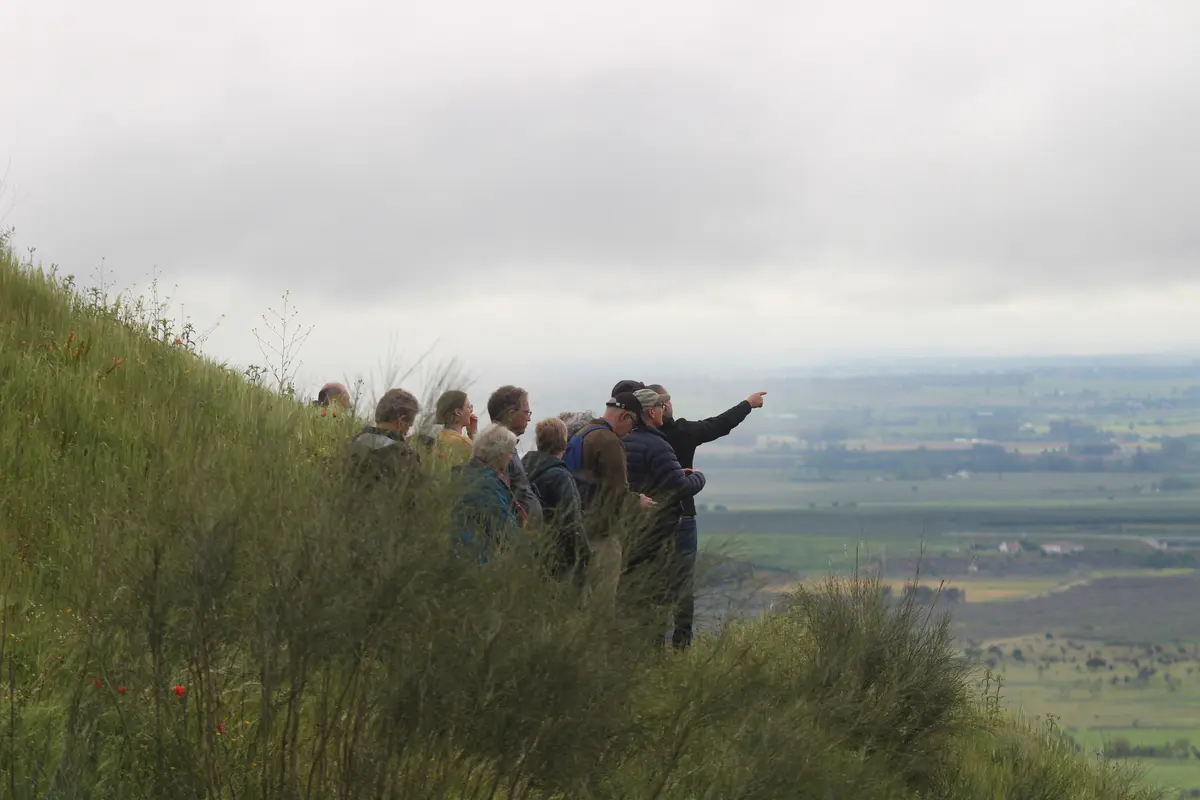
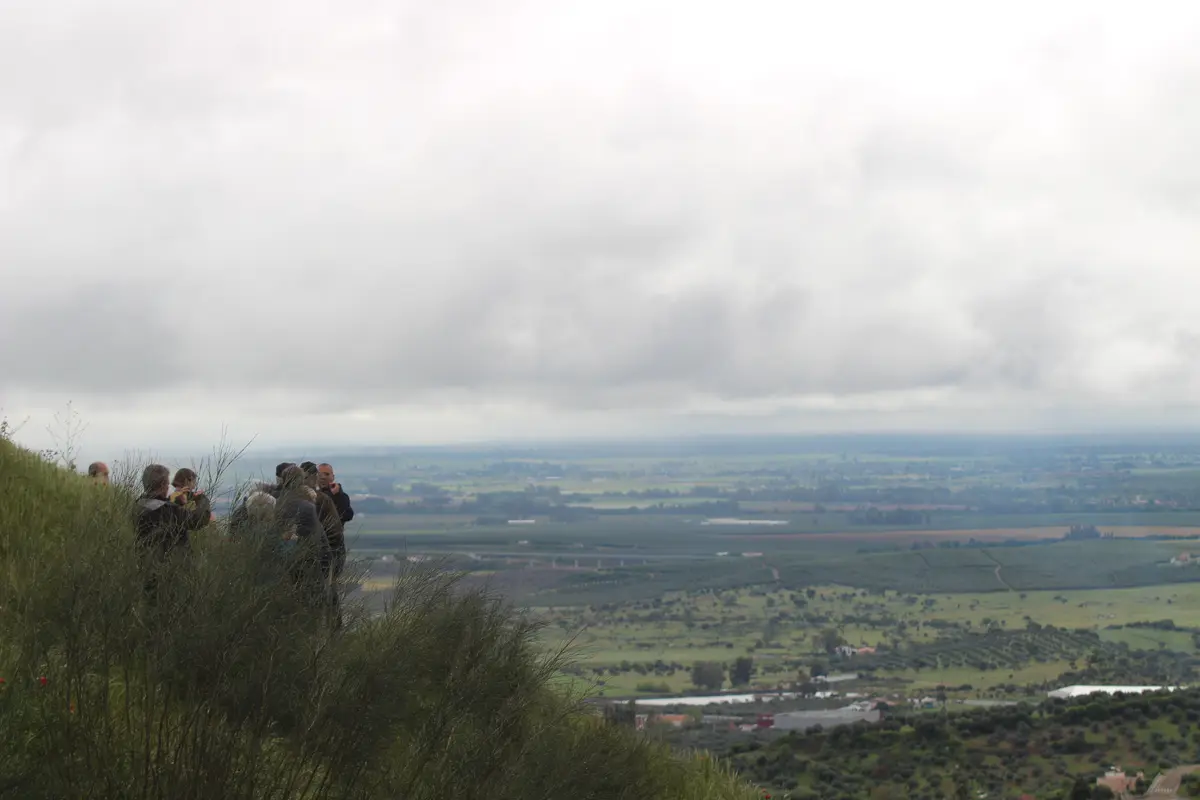
Update hero image to IMG_4353.JPG and rebrand from 'Ibero Tourism' to 'Ibero Tours'

diff --git a/app/page.tsx b/app/page.tsx
@@ -61,7 +61,7 @@ export default function Page() {
       <section className="relative h-screen w-full">
         <Image 
           src="/images/hero-main.JPG" 
-          alt="Ibero Tourism Experience" 
+          alt="Ibero Tours Experience" 
           fill 
           className="object-cover" 
           priority 
@@ -84,7 +84,7 @@ export default function Page() {
                   transition={{ delay: 0.5, duration: 0.8 }}
                 >
                   <h1 className="text-2xl font-light text-white tracking-widest">
-                    IBERO TOURISM
+                    IBERO TOURS
                   </h1>
                 </motion.div>
                 
@@ -277,7 +277,7 @@ export default function Page() {
       {/* Footer */}
       <footer className="bg-gray-900 py-8">
         <div className="max-w-4xl mx-auto px-6 text-center">
-          <p className="text-white/60 text-sm tracking-wider">© 2025 Ibero Tourism. Authentic experiences across the Iberian Peninsula.</p>
+          <p className="text-white/60 text-sm tracking-wider">© 2025 Ibero Tours. Authentic experiences across the Iberian Peninsula.</p>
         </div>
       </footer>
     </main>

diff --git a/app/destinations/page.tsx b/app/destinations/page.tsx
@@ -37,7 +37,7 @@ export default function DestinationsPage() {
       <header className="absolute top-0 left-0 right-0 z-50 p-8">
         <nav className="flex justify-between items-center">
           <Link href="/" className="text-2xl font-light text-white tracking-widest">
-            IBERO TOURISM
+            IBERO TOURS
           </Link>
           <div className="flex gap-8 items-center">
             <Link href="/gallery" className="text-white hover:text-gray-300 transition-colors text-sm uppercase tracking-wider">

diff --git a/app/contact/page.tsx b/app/contact/page.tsx
@@ -22,7 +22,7 @@ export default function ContactPage() {
       <header className="absolute top-0 left-0 right-0 z-50 p-8">
         <nav className="flex justify-between items-center">
           <Link href="/" className="text-2xl font-light text-white tracking-widest">
-            IBERO TOURISM
+            IBERO TOURS
           </Link>
           <div className="flex gap-8 items-center">
             <Link href="/gallery" className="text-white hover:text-gray-300 transition-colors text-sm uppercase tracking-wider">

diff --git a/app/gallery/page.tsx b/app/gallery/page.tsx
@@ -22,7 +22,7 @@ export default function GalleryPage() {
       <header className="absolute top-0 left-0 right-0 z-50 p-8">
         <nav className="flex justify-between items-center">
           <Link href="/" className="text-2xl font-light text-white tracking-widest">
-            IBERO TOURISM
+            IBERO TOURS
           </Link>
           <div className="flex gap-8 items-center">
             <Link href="/gallery" className="text-white border-b border-white text-sm uppercase tracking-wider">
